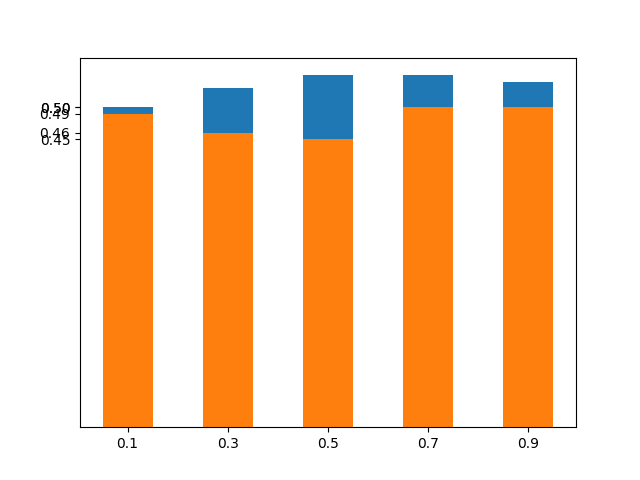
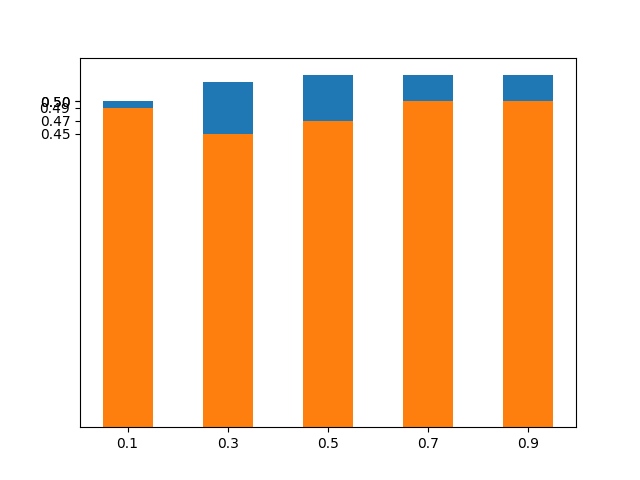
update

diff --git a/Machine Learning in Privacy (Special Topics)/assignments/hw2/hw2/hw2.py b/Machine Learning in Privacy (Special Topics)/assignments/hw2/hw2/hw2.py
@@ -6,25 +6,22 @@
 
 import os
 import sys
-
 import numpy as np
 import matplotlib.pyplot as plt
-
 import tensorflow as tf
-
 # we'll use keras for neural networks
 import keras
 from keras.datasets import mnist
-
 import os
-
 # our neural network architectures
 import nets
 import collections
-
 import attacks
-
 import warnings
+import math
+from keras.datasets import cifar10
+from keras.layers import Conv2D, MaxPooling2D
+from keras.models import Sequential
 warnings.simplefilter("ignore")
 ## os / paths
 def ensure_exists(dir_fp):
@@ -306,6 +303,7 @@ def main():
         in_or_out_pred = attacks.do_loss_attack(x_targets, y_targets, query_target_model, loss_fn, mean_train_loss, std_train_loss,
                                                 mean_test_loss, std_test_loss)
         accuracy, advantage, _ = attacks.attack_performance(in_or_out_targets, in_or_out_pred)
+        accuracy_loss = []
 
         print('Loss attack accuracy, advantage: {:.1f}%, {:.2f}'.format(100.0*accuracy, advantage))
 
@@ -322,7 +320,7 @@ def main():
         idx = accuracy_list.index(max(accuracy_list))
         best_threshold_lossattack2 = threshold[idx]
 
-        print("the best threshold for loss attack 2 is:", best_threshold_lossattack2)
+        print("the best threshold for loss attack 2 is:", best_threshold_lossattack2,max(accuracy_list))
         ## Insert your code here to compute the best threshold (for posterior_attack)
         plot_list =[]
         for i in range(len(accuracy_list)):
@@ -331,12 +329,14 @@ def main():
         labels, ys = zip(*plot_list)
         xs = np.arange(len(labels)) 
         width =  0.5
-
+        high = max(ys)
+        low = min(ys)
+        # plt.ylim([math.ceil(low-0.5*(high-low)), math.ceil(high+0.5*(high-low))])
         plt.bar(xs, ys, width, align='center')
 
         plt.xticks(xs, labels) #Replace default x-ticks with xs, then replace xs with labels
         plt.yticks(ys)
-        
+        print("loss 2 acc:", accuracy_list)
         plt.savefig('Lossattack2_threshold.png')
 
         #posterior attack
@@ -363,43 +363,22 @@ def main():
 
         plt.xticks(xs, labels) #Replace default x-ticks with xs, then replace xs with labels
         plt.yticks(ys)
+        print("posterior acc:", accuracy_posterior)
         
         plt.savefig('Posterior_threshold.png')
     elif probno == 4:  ## problem 4
 
         
 
-        #Do the shokri attack
-        if attack_model_str == 'LR':
-            from sklearn.linear_model import LogisticRegression
-            attack_model_fn = lambda : LogisticRegression(solver='lbfgs')
-        elif attack_model_str == 'DT':
-            from sklearn.tree import DecisionTreeClassifier
-            attack_model_fn = DecisionTreeClassifier
-        elif attack_model_str == 'RF':
-            from sklearn.ensemble import RandomForestClassifier
-            attack_model_fn = RandomForestClassifier
-        elif attack_model_str == 'NB':
-            from sklearn.naive_bayes import GaussianNB
-            attack_model_fn = GaussianNB
-        elif attack_model_str == 'MLP':
-            from sklearn.neural_network import MLPClassifier
-            attack_model_fn = lambda : MLPClassifier(max_iter=500)
-        elif attack_model_str == 'SVM':
-            from sklearn.svm import LinearSVC
-            attack_model_fn = LinearSVC
-        else:
-            assert False, '{} is not a valid attack model type!'.format(attack_model_str)
-
+        # attack_model_fn = 
         create_model_fn = target_model_train_fn
         train_model_fn = lambda model, x, y: nets.train_model(model, x, y, None, None, num_epochs, verbose=False)
-
         attack_models = attacks.shokri_attack_models(x_aux, y_aux, target_train_size, create_model_fn, train_model_fn,
                                                     num_shadow=num_shadow, attack_model_fn=attack_model_fn)
 
 
-        in_or_out_pred = attacks.do_shokri_attack(attack_models, x_targets, y_targets, query_target_model)
-        accuracy, advantage, _ = attacks.attack_performance(in_or_out_targets, in_or_out_pred)
+        in_or_out_pred_shokri = attacks.do_shokri_attack(attack_models, x_targets, y_targets, query_target_model)
+        accuracy_shokri, advantage, _ = attacks.attack_performance(in_or_out_targets, in_or_out_pred_shokri)
 
         print('Shokri attack ({}) accuracy, advantage: {:.1f}%, {:.2f}'.format(attack_model_str, 100.0*accuracy, advantage))
         #Do Loss Attack
@@ -413,23 +392,40 @@ def main():
         std_test_loss = np.std(loss_test_vec)
 
         #loss attack
-        in_or_out_pred = attacks.do_loss_attack(x_targets, y_targets, query_target_model, loss_fn, mean_train_loss, std_train_loss,
+        in_or_out_pred_loss = attacks.do_loss_attack(x_targets, y_targets, query_target_model, loss_fn, mean_train_loss, std_train_loss,
                                                 mean_test_loss, std_test_loss)
-        accuracy, advantage, _ = attacks.attack_performance(in_or_out_targets, in_or_out_pred)
+        accuracy_loss, advantage, _ = attacks.attack_performance(in_or_out_targets, in_or_out_pred_loss)
 
         print('Loss attack accuracy, advantage: {:.1f}%, {:.2f}'.format(100.0*accuracy, advantage))
         #Do Loss Attack 2
         in_or_out_pred_loss2 = attacks.do_loss_attack2(x_targets, y_targets, query_target_model, loss_fn, mean_train_loss, std_train_loss, item)
-        accuracy, advantage, _ = attacks.attack_performance(in_or_out_targets, in_or_out_pred_loss2)
+        accuracy_loss2, advantage, _ = attacks.attack_performance(in_or_out_targets, in_or_out_pred_loss2)
         #Do posterior attack
-        in_or_out_pred = attacks.do_posterior_attack(x_targets, y_targets, query_target_model, item )
-        accuracy, advantage, _ = attacks.attack_performance(in_or_out_targets, in_or_out_pred)
-        accuracy_posterior.append(accuracy)
+        in_or_out_pred_post = attacks.do_posterior_attack(x_targets, y_targets, query_target_model, item )
+        accuracy_posterior, advantage, _ = attacks.attack_performance(in_or_out_targets, in_or_out_pred_post)
+        
 
     elif probno == 5:  ## problem 5 (bonus)
 
         assert len(sys.argv) >= 5, 'Inconsistent number of arguments'
-        
+
+  #       (x_train, y_train), (x_test, y_test) = cifar10.load_data()
+		# print('x_train shape:', x_train.shape)
+		# print(x_train.shape[0], 'train samples')
+		# print(x_test.shape[0], 'test samples')
+
+		# y_train = keras.utils.to_categorical(y_train, num_classes)
+		# y_test = keras.utils.to_categorical(y_test, num_classes)
+		# train_loss, train_accuracy, test_loss, test_accuracy = nets.train_model(target_model, x_train, y_train, x_test, y_test, num_epochs, verbose=verb)
+
+	 #    print('Trained target model on {} records. Train accuracy and loss: {:.1f}%, {:.2f} -- Test accuracy and loss: {:.1f}%, {:.2f}'.format(target_train_size,
+  #                                                                                   100.0*train_accuracy, train_loss, 100.0*test_accuracy, test_loss))
+
+	 #    query_target_model = lambda x: target_model.predict(x)
+	 #    predictions = query_target_model(x_test)
+
+
+		        
 
 if __name__ == '__main__':
     main()

diff --git a/Machine Learning in Privacy (Special Topics)/assignments/hw2/hw2/attacks.py b/Machine Learning in Privacy (Special Topics)/assignments/hw2/hw2/attacks.py
@@ -72,36 +72,39 @@ def shokri_attack_models(x_aux, y_aux, target_train_size, create_model_fn, train
 
         for i in range(0, num_shadow):
                 shadow_n = create_model_fn()
-                x,y= random_subdataset(x_aux,y_aux,target_train_size) #get the sub dataset and turn shadow models 
-                trainSize = int(0.8*target_train_size)
-                print(trainSize)
+                x,y= random_subdataset(x_aux,y_aux,2*target_train_size) #get the sub dataset and turn shadow models 
+                trainSize = (2*target_train_size)//2
+                # print("train size is:", trainSize)
                 trainData = x[:trainSize]
                 testData = x[trainSize:] #pick a size
                 trainLabels, testLabels = y[:trainSize],y[trainSize:]
-                #the classification of shadow models are added to the lists. 
+                 
                 shadowTrain = train_model_fn(shadow_n,trainData,trainLabels)
-                print("shokri attack train models: ", shadowTrain)
+                
                 predictions_train = shadow_n.predict(trainData)
                 predictions_test = shadow_n.predict(testData)
-                predictions = np.vstack((predictions_train, predictions_test))
-                # print(predictions)
-                in_or_out_pred = np.zeros((target_train_size,1))
-                IndexList = np.zeros((target_train_size,1))
-                in_or_out_pred[:trainSize] = 1
-                in_or_out_pred[trainSize:]=0
-
                 
-                idx = np.where(y == 1)
+                train_pred= np.zeros((predictions_train.shape[0],1))
+                test_pred= np.zeros((predictions_test.shape[0],1))
+                train_index = np.zeros((predictions_train.shape[0],1))
+                test_index = np.zeros((predictions_test.shape[0],1))
 
+                train_pred[:train_pred.shape[0]] = 1
+                test_pred[:test_pred.shape[0]] = 0
                 
-                IndexList = np.asarray(idx[1])
-                IndexList = np.reshape(IndexList,(in_or_out_pred.shape))
-                print(IndexList.shape)
-                print(in_or_out_pred.shape)
-                data_second = np.hstack((IndexList,in_or_out_pred))
-
-                data = np.column_stack((predictions,data_second))
-                add_to_list(data)
+                train_idx = [np.where(x == 1)[0][0] for x in trainLabels]
+                test_idx  = [np.where(x == 1)[0][0] for x in testLabels]
+                
+                train_index = np.array(train_idx).reshape(len(train_index), 1);
+                test_index = np.array(test_idx).reshape(len(test_index), 1);
+                
+                data_in = np.hstack((predictions_train,train_index))
+                data_in = np.hstack((data_in,train_pred))
+                data_out = np.hstack((predictions_test,test_index))
+                data_out = np.hstack((data_out,test_pred))
+                
+                add_to_list(data_in)
+                add_to_list(data_out)
 
 
         # now train the models
